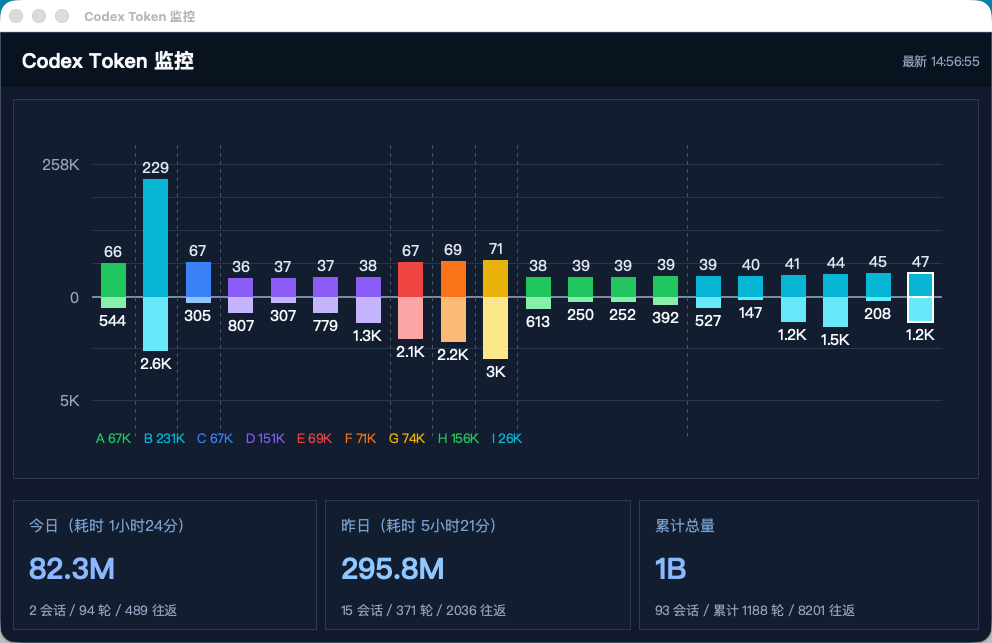
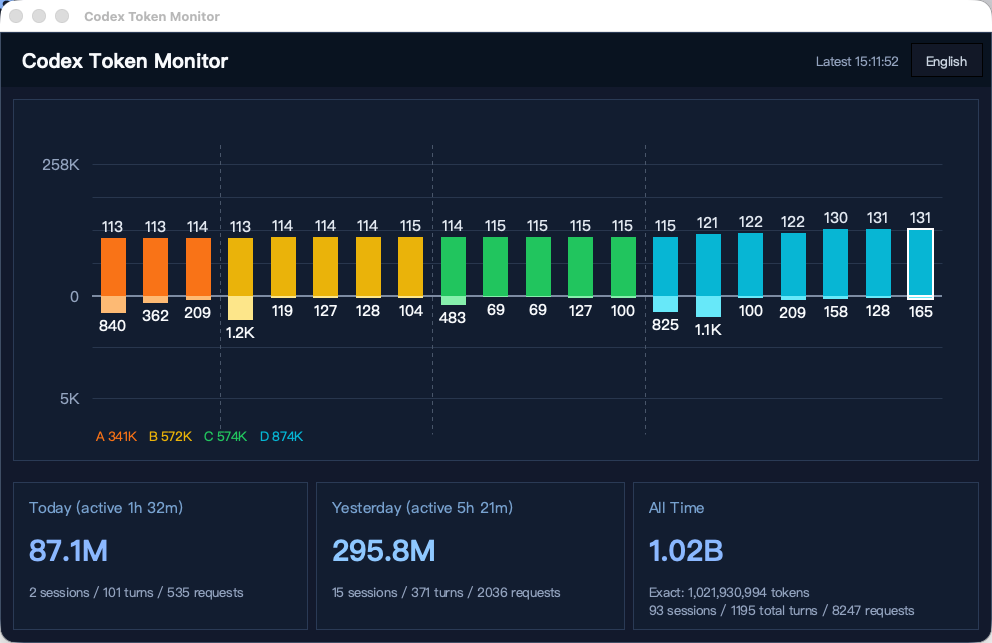
add portable launchers and release notes

diff --git a/README.md b/README.md
@@ -2,6 +2,10 @@
 
 Codex Scope is an unofficial local diagnostics toolkit for Codex sessions.
 
+Suggested GitHub repository description:
+
+`Local observability toolkit for Codex sessions with exact token accounting, context inspection, and continue cards.`
+
 It reads data already stored on your machine and helps you understand:
 
 - how many tokens each model call actually used
@@ -11,7 +15,7 @@ It reads data already stored on your machine and helps you understand:
 
 ![Codex Scope monitor dashboard](assets/monitor-dashboard.png)
 
-The screenshot above shows the floating monitor dashboard for recent token activity, daily totals, and cumulative usage.
+The screenshot above shows the English monitor dashboard with recent token activity, grouped turns, and a more detailed all-time total card.
 
 ## What It Reads
 
@@ -69,26 +73,30 @@ Launch the monitor widget:
 
 ```bash
 cd /Users/sean_1/codex/codex-tool
-/opt/homebrew/bin/python3.13 codex_token_widget.py
+bash scripts/launch_monitor.sh
 ```
 
 Launch the continue-card tool:
 
 ```bash
 cd /Users/sean_1/codex/codex-tool
-/opt/homebrew/bin/python3.13 codex_continue_summary.py
+bash scripts/launch_continue_summary.sh
 ```
 
 Launch with Chinese UI explicitly:
 
 ```bash
-/opt/homebrew/bin/python3.13 codex_token_widget.py --lang zh
+bash scripts/launch_monitor.sh --lang zh
 ```
 
 On macOS you can also launch:
 
 - `启动 Codex Token 监控.command`
-- `Codex Token 监控.app`
+
+On Windows you can use:
+
+- `scripts\launch_monitor.cmd`
+- `scripts\launch_continue_summary.cmd`
 
 ## Common Commands
 
@@ -125,8 +133,42 @@ python3 codex_context_inspector.py dump-context --latest --call 1 --json
 Print a continue card for the latest session:
 
 ```bash
-/opt/homebrew/bin/python3.13 codex_continue_summary.py --latest
+bash scripts/launch_continue_summary.sh --latest
 ```
+
+## Workbuddy Notes
+
+If Workbuddy fails to start the monitor with a Python error, the usual cause is a hardcoded interpreter path such as `/opt/homebrew/bin/python3.13`.
+
+Recommended fix:
+
+- use `bash scripts/launch_monitor.sh` instead of calling Python directly
+- or set `CODEX_SCOPE_PYTHON` to the interpreter you want Workbuddy to use
+
+Example:
+
+```bash
+export CODEX_SCOPE_PYTHON=/opt/homebrew/bin/python3.13
+bash scripts/launch_monitor.sh
+```
+
+The shell launcher prefers:
+
+- `CODEX_SCOPE_PYTHON`
+- `.venv/bin/python`
+- Homebrew Python
+- other non-system `python3`
+
+Note:
+
+- the existing `Codex Token 监控.app` bundle was exported earlier with a fixed Python path, so it may still fail on machines where that path does not exist
+- for GitHub distribution, the shell and Windows launchers are the safer default entry points
+
+## Platform Support
+
+- macOS: primary tested platform
+- Windows: launcher scripts are included; you need Python 3.11+ with Tk support
+- Linux: the shell launchers should work if Tkinter is available
 
 ## Privacy
 

diff --git a/codex-scope-skill/SKILL.md b/codex-scope-skill/SKILL.md
@@ -27,11 +27,11 @@ Do not use this skill for generic prompt engineering or remote service tracing. 
 From this skill directory:
 
 ```bash
-/opt/homebrew/bin/python3.13 scripts/codex_token_widget.py
+bash ../scripts/launch_monitor.sh
 ```
 
 ```bash
-/opt/homebrew/bin/python3.13 scripts/codex_continue_summary.py
+bash ../scripts/launch_continue_summary.sh
 ```
 
 ```bash
